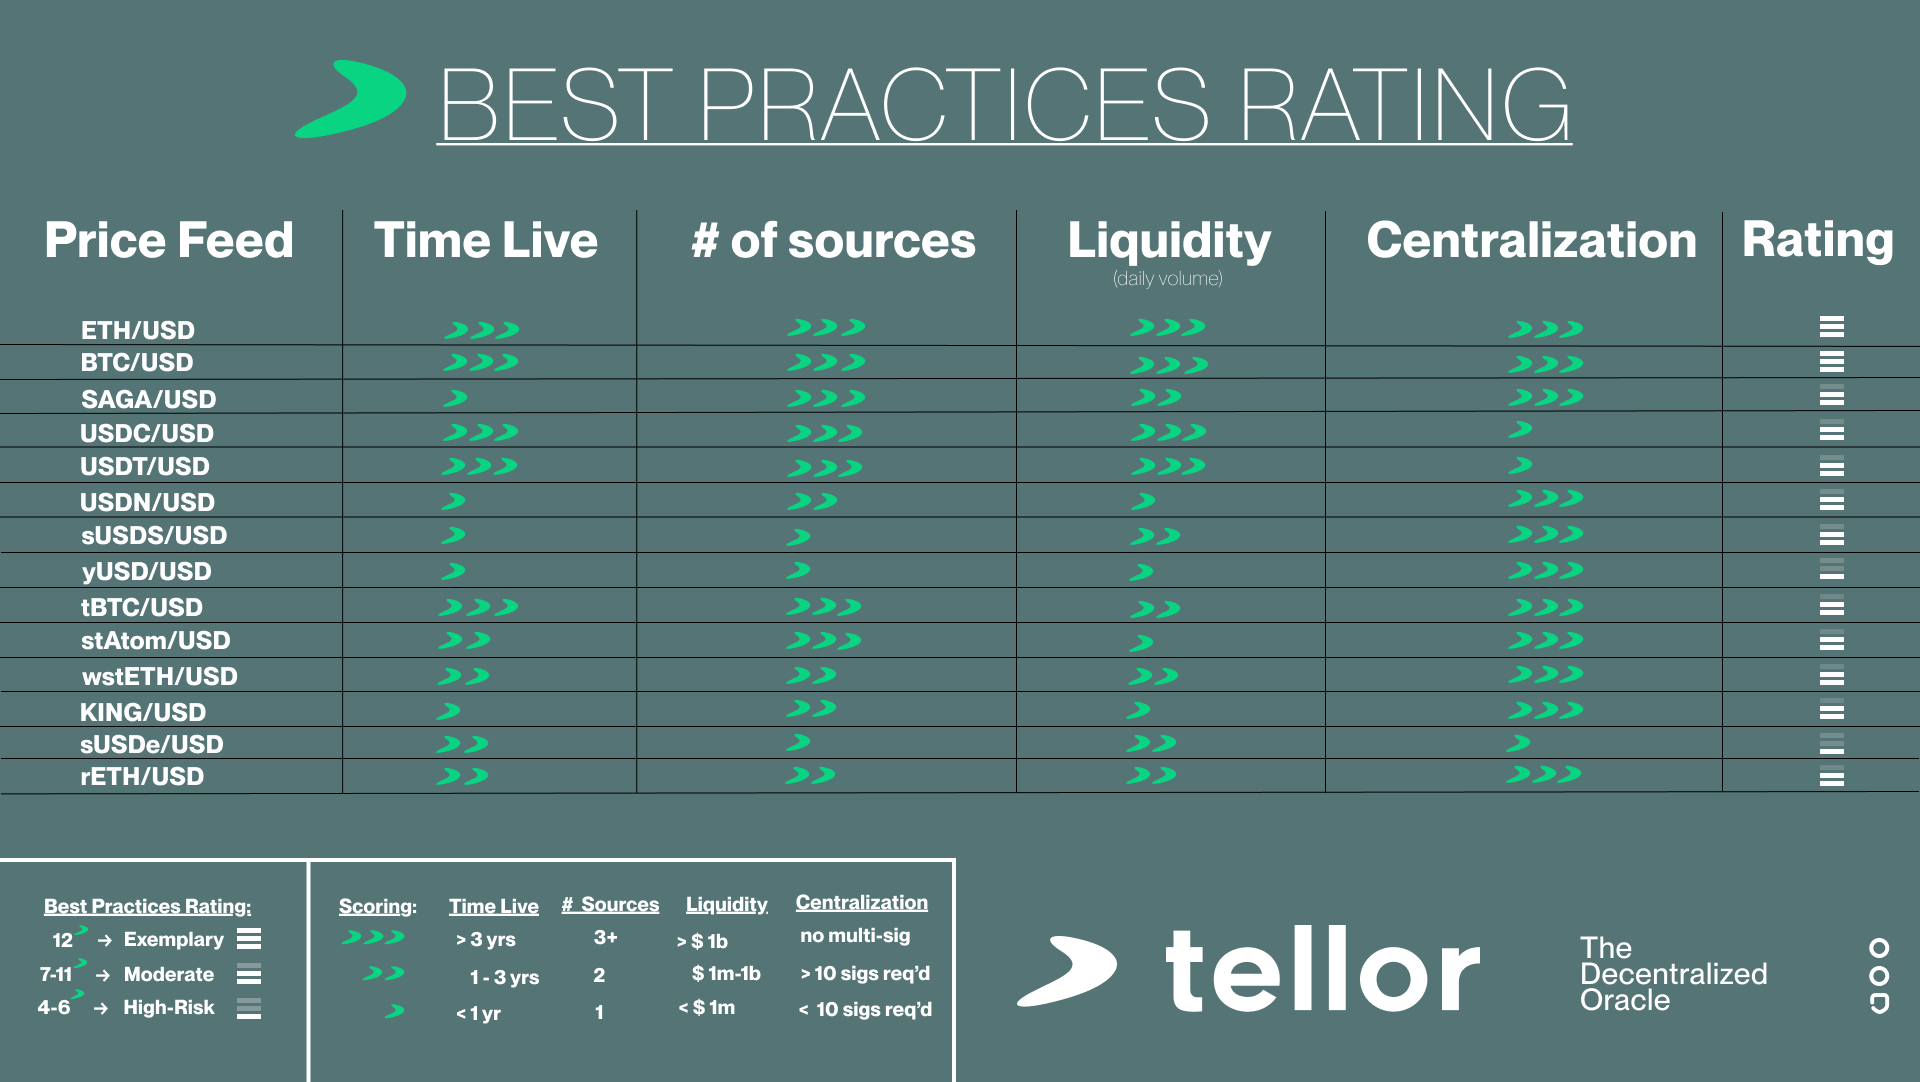
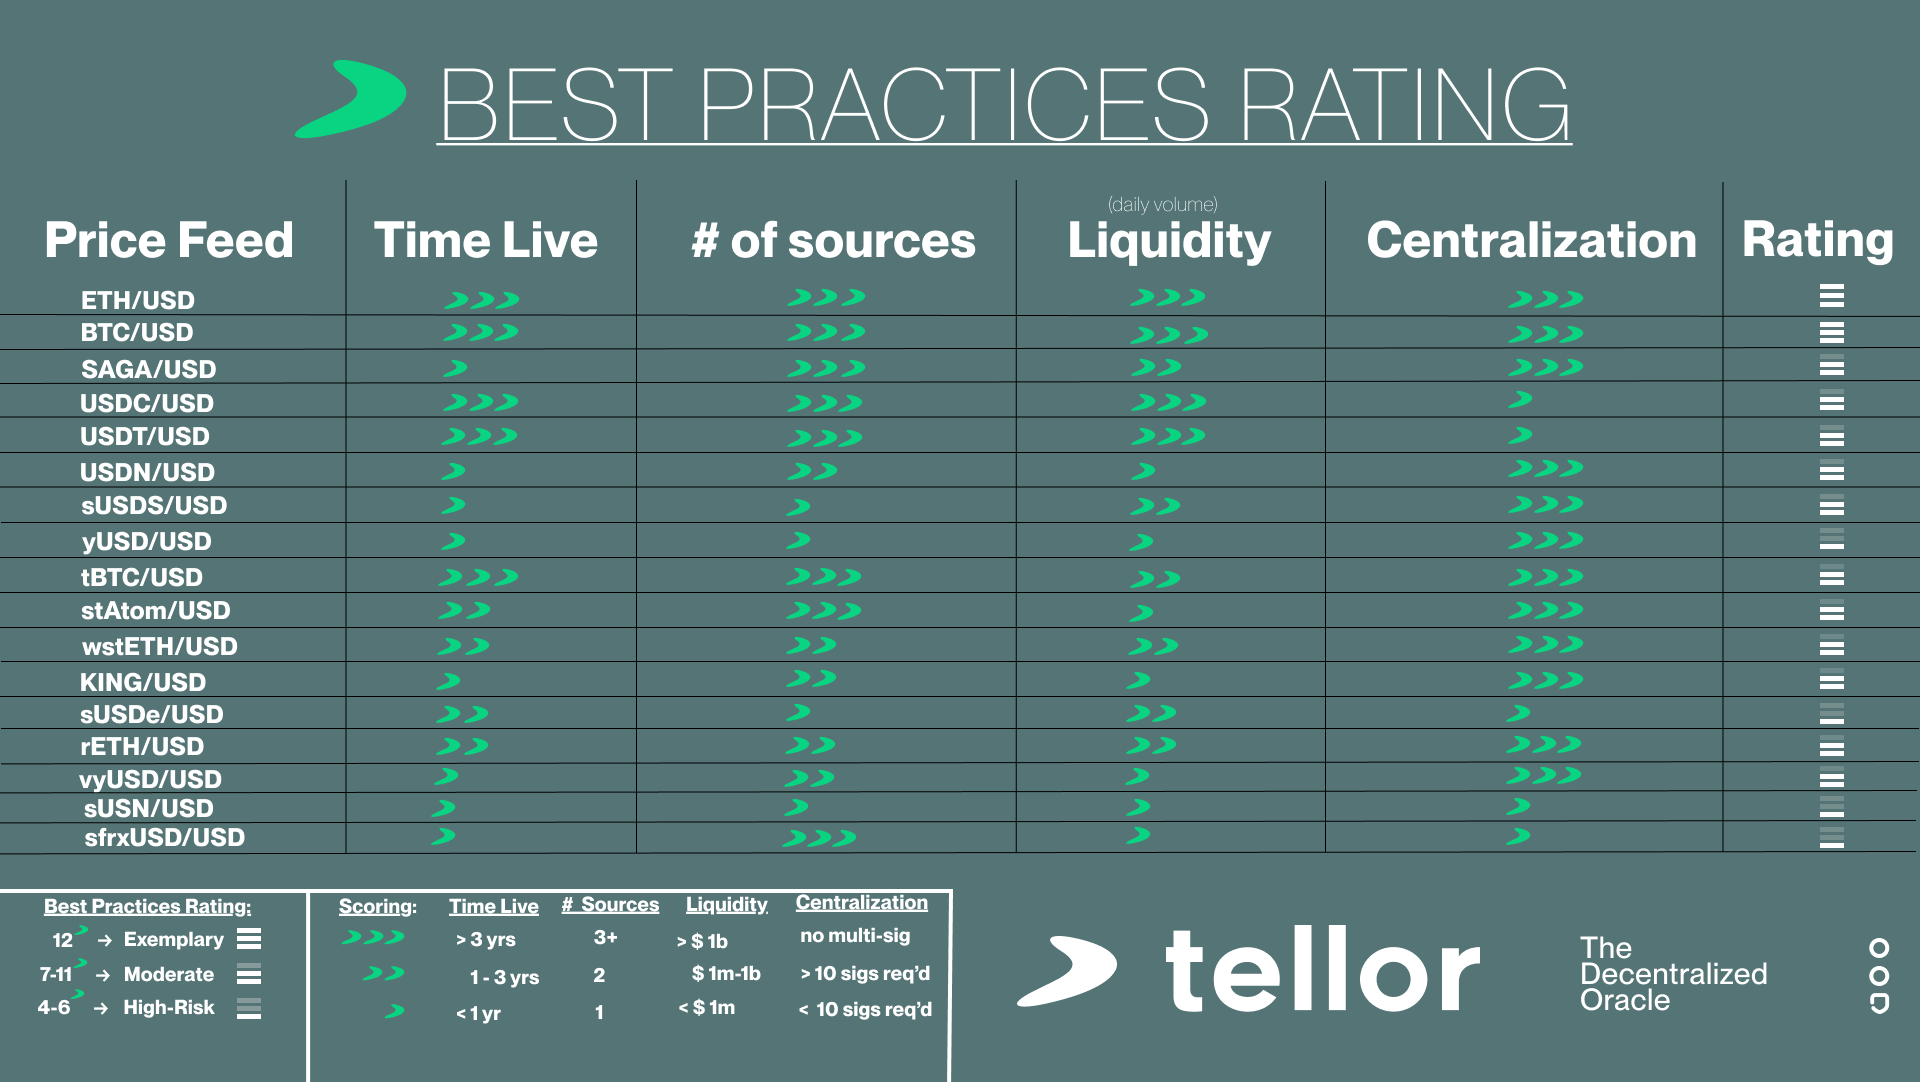
new feeds

diff --git a/src/components/DataFeed.js b/src/components/DataFeed.js
@@ -64,7 +64,10 @@ const DATABANK_PRICE_PAIRS = {
[8 lines of base64/hex data omitted]
 };
 
 // Feed risk assessment mapping
@@ -82,7 +85,10 @@ const FEED_RISK_ASSESSMENT = {
   'wstETH/USD': 'moderate',    // 2 bars
   'KING/USD': 'moderate',      // 2 bars
   'sUSDe/USD': 'high',         // 1 bar
-  'stATOM/USD': 'moderate'     // 2 bars
+  'stATOM/USD': 'moderate',    // 2 bars
+  'vyUSD/USD': 'moderate',     // 2 bars
+  'sUSN/USD': 'moderate',      // 2 bars
+  'sfrxUSD/USD': 'moderate'    // 2 bars
 };
 
 // Risk level to bar count mapping
@@ -2244,7 +2250,7 @@ const fetchDataBankData = useCallback(async (contract, provider, targetFeed = nu
                                   width: '6px',
                                   height: '2px',
                                   backgroundColor: index < RISK_BAR_COUNT[FEED_RISK_ASSESSMENT['ETH/USD'] || 'high'] 
-                                    ? 'white'
+                                    ? ((!isDataBankContract && !selectedDataBankFeed) ? 'white' : '#0E5353')
                                     : 'rgba(255,255,255,0.3)',
                                   borderRadius: '1px'
                                 }}
